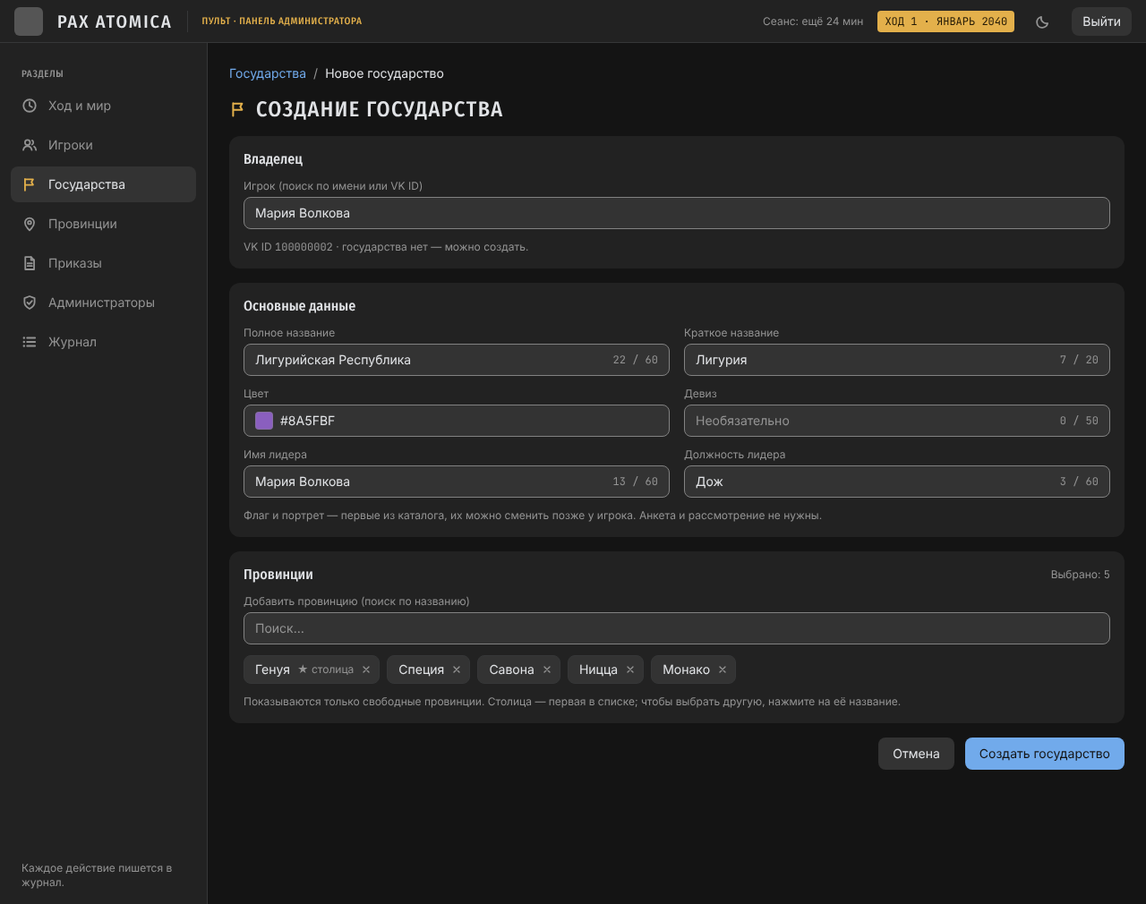
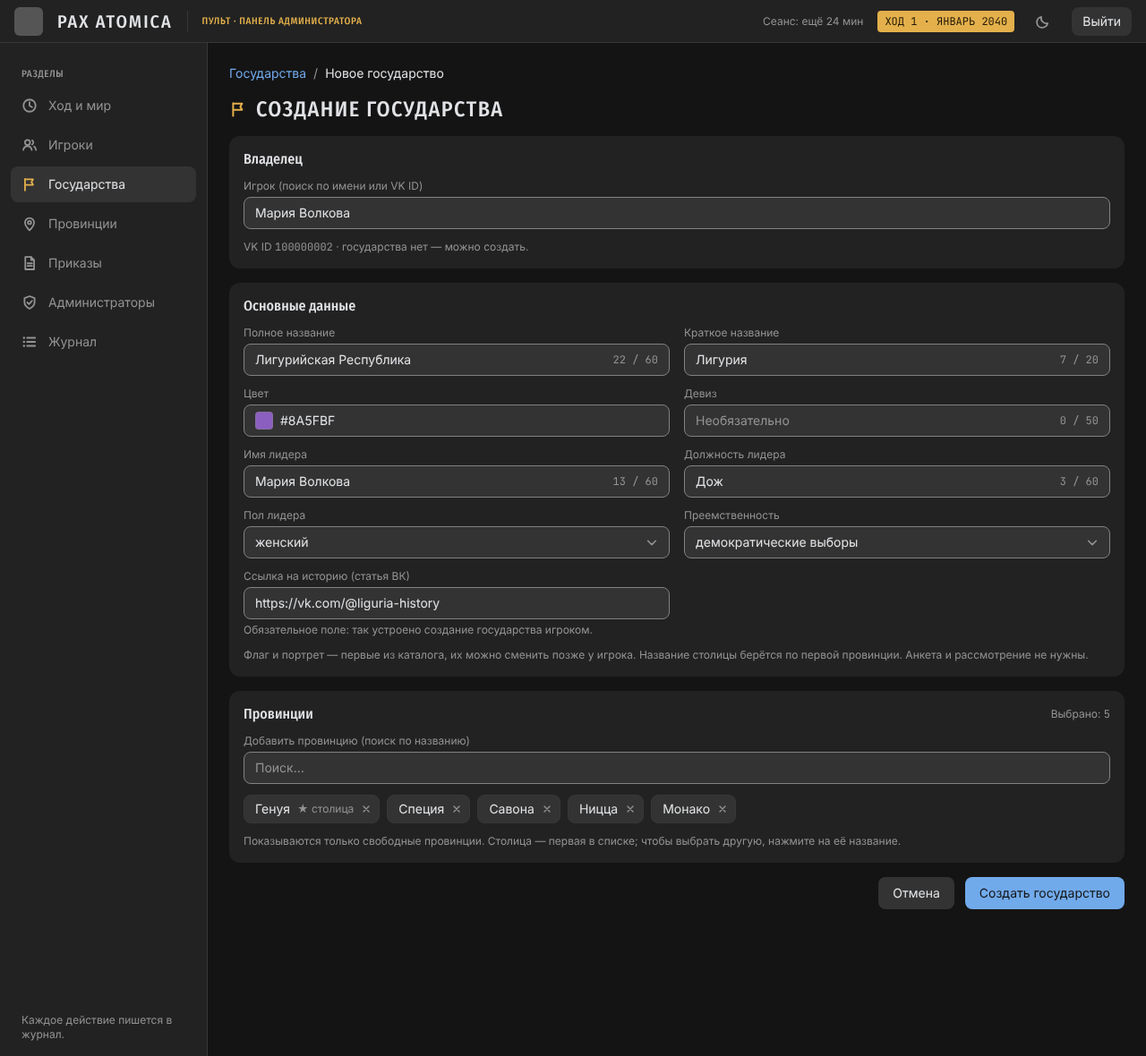
docs(0.11.0): updated 03c create-nation mockups (leader gender, succession, history link)

diff --git a/docs/06_DESIGN/0.11.0/html/03c_sozdanie_gosudarstva_dark.html b/docs/06_DESIGN/0.11.0/html/03c_sozdanie_gosudarstva_dark.html
@@ -74,4 +74,4 @@ tr:last-child td{border-bottom:0}
 .seg span{display:flex;align-items:center;height:32px;padding:0 12px;border-radius:6px;color:#939393;white-space:nowrap}
 .seg span.on{background:#222222;color:#e1e3e6}
 .ctr{display:flex;align-items:center;justify-content:center}
-</style></head><body><div class="page" style="min-height:1010px;"><header class="top"><span class="logo"></span><span class="wm">PAX ATOMICA</span><span class="sep"></span><span class="lab" style="color:var(--si)">Пульт · панель администратора</span><span class="grow"></span><span class="cap">Сеанс: ещё 24 мин</span><span class="turn">ХОД 1 · ЯНВАРЬ 2040</span><span title="Тема" style="display:flex;width:32px;height:32px;align-items:center;justify-content:center;color:var(--m)"><svg width="18" height="18" viewBox="0 0 16 16" fill="none" stroke="currentColor" stroke-width="1.6" stroke-linecap="round" stroke-linejoin="round" aria-hidden="true"><path d="M12.6 9.8A5.4 5.4 0 0 1 6.2 3.4a5.4 5.4 0 1 0 6.4 6.4z"/></svg></span><a class="btn  sm" href="#">Выйти</a></header><div class="body" style="min-height:962px"><nav class="side"><span class="lab grp">Разделы</span><a href="#" class=""><svg width="18" height="18" viewBox="0 0 16 16" fill="none" stroke="currentColor" stroke-width="1.6" stroke-linecap="round" stroke-linejoin="round" aria-hidden="true"><circle cx="8" cy="8" r="6"/><path d="M8 4.5V8l2.5 1.5"/></svg>Ход и мир</a><a href="#" class=""><svg width="18" height="18" viewBox="0 0 16 16" fill="none" stroke="currentColor" stroke-width="1.6" stroke-linecap="round" stroke-linejoin="round" aria-hidden="true"><circle cx="6" cy="5.5" r="2.5"/><path d="M1.8 13c.4-2.4 2.2-3.8 4.2-3.8s3.8 1.4 4.2 3.8"/><path d="M10.5 3.4a2.4 2.4 0 0 1 0 4.2M12.5 9.6c1 .6 1.7 1.7 1.9 3.4"/></svg>Игроки</a><a href="#" class="on"><svg width="18" height="18" viewBox="0 0 16 16" fill="none" stroke="currentColor" stroke-width="1.6" stroke-linecap="round" stroke-linejoin="round" aria-hidden="true"><path d="M3.5 14V2.5M3.5 3h8l-1.6 2.8L11.5 8.5h-8"/></svg>Государства</a><a href="#" class=""><svg width="18" height="18" viewBox="0 0 16 16" fill="none" stroke="currentColor" stroke-width="1.6" stroke-linecap="round" stroke-linejoin="round" aria-hidden="true"><path d="M8 14.5s4.5-4.2 4.5-7.7a4.5 4.5 0 0 0-9 0c0 3.5 4.5 7.7 4.5 7.7z"/><circle cx="8" cy="6.8" r="1.6"/></svg>Провинции</a><a href="#" class=""><svg width="18" height="18" viewBox="0 0 16 16" fill="none" stroke="currentColor" stroke-width="1.6" stroke-linecap="round" stroke-linejoin="round" aria-hidden="true"><path d="M3.8 1.8h5.7l3 3.1v9.3H3.8z"/><path d="M9.5 1.8v3.1h3M6 8.2h4.5M6 10.8h4.5"/></svg>Приказы</a><a href="#" class=""><svg width="18" height="18" viewBox="0 0 16 16" fill="none" stroke="currentColor" stroke-width="1.6" stroke-linecap="round" stroke-linejoin="round" aria-hidden="true"><path d="M8 1.8l5 1.8v4.2c0 3-2.2 5-5 6.4-2.8-1.4-5-3.4-5-6.4V3.6z"/><path d="M5.8 8l1.7 1.7L10.5 6.4"/></svg>Администраторы</a><a href="#" class=""><svg width="18" height="18" viewBox="0 0 16 16" fill="none" stroke="currentColor" stroke-width="1.6" stroke-linecap="round" stroke-linejoin="round" aria-hidden="true"><path d="M5.5 4h8M5.5 8h8M5.5 12h8"/><path d="M2.5 4h.01M2.5 8h.01M2.5 12h.01" stroke-width="2.2"/></svg>Журнал</a><span class="grow"></span><span class="cap" style="padding:0 12px">Каждое действие пишется в журнал.</span></nav><main class="main"><div class="crumbs"><a class="link" href="#">Государства</a><span>/</span><b>Новое государство</b></div><h1><svg width="20" height="20" viewBox="0 0 16 16" fill="none" stroke="var(--si)" stroke-width="1.6" stroke-linecap="round" stroke-linejoin="round" aria-hidden="true"><path d="M3.5 14V2.5M3.5 3h8l-1.6 2.8L11.5 8.5h-8"/></svg>Создание государства</h1><section class="card"><h2>Владелец</h2><label class="fld"><span class="l">Игрок (поиск по имени или VK ID)</span><span class="in"><span style="display:flex;align-items:center;gap:8px;overflow:hidden;text-overflow:ellipsis">Мария Волкова</span></span></label><span class="hint">VK ID <span class="mono">100000002</span> · государства нет — можно создать.</span></section><section class="card"><h2>Основные данные</h2><div class="grid g2"><label class="fld"><span class="l">Полное название</span><span class="in"><span style="display:flex;align-items:center;gap:8px;overflow:hidden;text-overflow:ellipsis">Лигурийская Республика</span><span class="cnt">22 / 60</span></span></label><label class="fld"><span class="l">Краткое название</span><span class="in"><span style="display:flex;align-items:center;gap:8px;overflow:hidden;text-overflow:ellipsis">Лигурия</span><span class="cnt">7 / 20</span></span></label><label class="fld"><span class="l">Цвет</span><span class="in"><span style="display:flex;align-items:center;gap:8px;overflow:hidden;text-overflow:ellipsis"><span class="sw" style="background:#8a5fbf"></span>#8A5FBF</span></span></label><label class="fld"><span class="l">Девиз</span><span class="in ph"><span style="display:flex;align-items:center;gap:8px;overflow:hidden;text-overflow:ellipsis">Необязательно</span><span class="cnt">0 / 50</span></span></label><label class="fld"><span class="l">Имя лидера</span><span class="in"><span style="display:flex;align-items:center;gap:8px;overflow:hidden;text-overflow:ellipsis">Мария Волкова</span><span class="cnt">13 / 60</span></span></label><label class="fld"><span class="l">Должность лидера</span><span class="in"><span style="display:flex;align-items:center;gap:8px;overflow:hidden;text-overflow:ellipsis">Дож</span><span class="cnt">3 / 60</span></span></label></div><span class="hint">Флаг и портрет — первые из каталога, их можно сменить позже у игрока. Анкета и рассмотрение не нужны.</span></section><section class="card"><div class="row"><h2 class="grow">Провинции</h2><span class="cap">Выбрано: <span class="mono">5</span></span></div><label class="fld"><span class="l">Добавить провинцию (поиск по названию)</span><span class="in ph"><span style="display:flex;align-items:center;gap:8px;overflow:hidden;text-overflow:ellipsis">Поиск…</span></span></label><div class="row" style="flex-wrap:wrap;gap:8px"><span class="chip">Генуя<span class="cap">★ столица</span><svg width="12" height="12" viewBox="0 0 16 16" fill="none" stroke="var(--m)" stroke-width="1.8" stroke-linecap="round" stroke-linejoin="round" aria-hidden="true"><path d="M4 4l8 8M12 4l-8 8"/></svg></span><span class="chip">Специя<svg width="12" height="12" viewBox="0 0 16 16" fill="none" stroke="var(--m)" stroke-width="1.8" stroke-linecap="round" stroke-linejoin="round" aria-hidden="true"><path d="M4 4l8 8M12 4l-8 8"/></svg></span><span class="chip">Савона<svg width="12" height="12" viewBox="0 0 16 16" fill="none" stroke="var(--m)" stroke-width="1.8" stroke-linecap="round" stroke-linejoin="round" aria-hidden="true"><path d="M4 4l8 8M12 4l-8 8"/></svg></span><span class="chip">Ницца<svg width="12" height="12" viewBox="0 0 16 16" fill="none" stroke="var(--m)" stroke-width="1.8" stroke-linecap="round" stroke-linejoin="round" aria-hidden="true"><path d="M4 4l8 8M12 4l-8 8"/></svg></span><span class="chip">Монако<svg width="12" height="12" viewBox="0 0 16 16" fill="none" stroke="var(--m)" stroke-width="1.8" stroke-linecap="round" stroke-linejoin="round" aria-hidden="true"><path d="M4 4l8 8M12 4l-8 8"/></svg></span></div><span class="hint">Показываются только свободные провинции. Столица — первая в списке; чтобы выбрать другую, нажмите на её название.</span></section><div class="row" style="justify-content:flex-end"><a class="btn" href="#">Отмена</a><a class="btn p" href="#">Создать государство</a></div></main></div></div></body></html>
+</style></head><body><div class="page" style="min-height:1180px;"><header class="top"><span class="logo"></span><span class="wm">PAX ATOMICA</span><span class="sep"></span><span class="lab" style="color:var(--si)">Пульт · панель администратора</span><span class="grow"></span><span class="cap">Сеанс: ещё 24 мин</span><span class="turn">ХОД 1 · ЯНВАРЬ 2040</span><span title="Тема" style="display:flex;width:32px;height:32px;align-items:center;justify-content:center;color:var(--m)"><svg width="18" height="18" viewBox="0 0 16 16" fill="none" stroke="currentColor" stroke-width="1.6" stroke-linecap="round" stroke-linejoin="round" aria-hidden="true"><path d="M12.6 9.8A5.4 5.4 0 0 1 6.2 3.4a5.4 5.4 0 1 0 6.4 6.4z"/></svg></span><a class="btn  sm" href="#">Выйти</a></header><div class="body" style="min-height:1132px"><nav class="side"><span class="lab grp">Разделы</span><a href="#" class=""><svg width="18" height="18" viewBox="0 0 16 16" fill="none" stroke="currentColor" stroke-width="1.6" stroke-linecap="round" stroke-linejoin="round" aria-hidden="true"><circle cx="8" cy="8" r="6"/><path d="M8 4.5V8l2.5 1.5"/></svg>Ход и мир</a><a href="#" class=""><svg width="18" height="18" viewBox="0 0 16 16" fill="none" stroke="currentColor" stroke-width="1.6" stroke-linecap="round" stroke-linejoin="round" aria-hidden="true"><circle cx="6" cy="5.5" r="2.5"/><path d="M1.8 13c.4-2.4 2.2-3.8 4.2-3.8s3.8 1.4 4.2 3.8"/><path d="M10.5 3.4a2.4 2.4 0 0 1 0 4.2M12.5 9.6c1 .6 1.7 1.7 1.9 3.4"/></svg>Игроки</a><a href="#" class="on"><svg width="18" height="18" viewBox="0 0 16 16" fill="none" stroke="currentColor" stroke-width="1.6" stroke-linecap="round" stroke-linejoin="round" aria-hidden="true"><path d="M3.5 14V2.5M3.5 3h8l-1.6 2.8L11.5 8.5h-8"/></svg>Государства</a><a href="#" class=""><svg width="18" height="18" viewBox="0 0 16 16" fill="none" stroke="currentColor" stroke-width="1.6" stroke-linecap="round" stroke-linejoin="round" aria-hidden="true"><path d="M8 14.5s4.5-4.2 4.5-7.7a4.5 4.5 0 0 0-9 0c0 3.5 4.5 7.7 4.5 7.7z"/><circle cx="8" cy="6.8" r="1.6"/></svg>Провинции</a><a href="#" class=""><svg width="18" height="18" viewBox="0 0 16 16" fill="none" stroke="currentColor" stroke-width="1.6" stroke-linecap="round" stroke-linejoin="round" aria-hidden="true"><path d="M3.8 1.8h5.7l3 3.1v9.3H3.8z"/><path d="M9.5 1.8v3.1h3M6 8.2h4.5M6 10.8h4.5"/></svg>Приказы</a><a href="#" class=""><svg width="18" height="18" viewBox="0 0 16 16" fill="none" stroke="currentColor" stroke-width="1.6" stroke-linecap="round" stroke-linejoin="round" aria-hidden="true"><path d="M8 1.8l5 1.8v4.2c0 3-2.2 5-5 6.4-2.8-1.4-5-3.4-5-6.4V3.6z"/><path d="M5.8 8l1.7 1.7L10.5 6.4"/></svg>Администраторы</a><a href="#" class=""><svg width="18" height="18" viewBox="0 0 16 16" fill="none" stroke="currentColor" stroke-width="1.6" stroke-linecap="round" stroke-linejoin="round" aria-hidden="true"><path d="M5.5 4h8M5.5 8h8M5.5 12h8"/><path d="M2.5 4h.01M2.5 8h.01M2.5 12h.01" stroke-width="2.2"/></svg>Журнал</a><span class="grow"></span><span class="cap" style="padding:0 12px">Каждое действие пишется в журнал.</span></nav><main class="main"><div class="crumbs"><a class="link" href="#">Государства</a><span>/</span><b>Новое государство</b></div><h1><svg width="20" height="20" viewBox="0 0 16 16" fill="none" stroke="var(--si)" stroke-width="1.6" stroke-linecap="round" stroke-linejoin="round" aria-hidden="true"><path d="M3.5 14V2.5M3.5 3h8l-1.6 2.8L11.5 8.5h-8"/></svg>Создание государства</h1><section class="card"><h2>Владелец</h2><label class="fld"><span class="l">Игрок (поиск по имени или VK ID)</span><span class="in"><span style="display:flex;align-items:center;gap:8px;overflow:hidden;text-overflow:ellipsis">Мария Волкова</span></span></label><span class="hint">VK ID <span class="mono">100000002</span> · государства нет — можно создать.</span></section><section class="card"><h2>Основные данные</h2><div class="grid g2"><label class="fld"><span class="l">Полное название</span><span class="in"><span style="display:flex;align-items:center;gap:8px;overflow:hidden;text-overflow:ellipsis">Лигурийская Республика</span><span class="cnt">22 / 60</span></span></label><label class="fld"><span class="l">Краткое название</span><span class="in"><span style="display:flex;align-items:center;gap:8px;overflow:hidden;text-overflow:ellipsis">Лигурия</span><span class="cnt">7 / 20</span></span></label><label class="fld"><span class="l">Цвет</span><span class="in"><span style="display:flex;align-items:center;gap:8px;overflow:hidden;text-overflow:ellipsis"><span class="sw" style="background:#8a5fbf"></span>#8A5FBF</span></span></label><label class="fld"><span class="l">Девиз</span><span class="in ph"><span style="display:flex;align-items:center;gap:8px;overflow:hidden;text-overflow:ellipsis">Необязательно</span><span class="cnt">0 / 50</span></span></label><label class="fld"><span class="l">Имя лидера</span><span class="in"><span style="display:flex;align-items:center;gap:8px;overflow:hidden;text-overflow:ellipsis">Мария Волкова</span><span class="cnt">13 / 60</span></span></label><label class="fld"><span class="l">Должность лидера</span><span class="in"><span style="display:flex;align-items:center;gap:8px;overflow:hidden;text-overflow:ellipsis">Дож</span><span class="cnt">3 / 60</span></span></label><label class="fld"><span class="l">Пол лидера</span><span class="in"><span style="display:flex;align-items:center;gap:8px;overflow:hidden;text-overflow:ellipsis">женский</span><svg width="14" height="14" viewBox="0 0 16 16" fill="none" stroke="currentColor" stroke-width="1.75" stroke-linecap="round" stroke-linejoin="round" aria-hidden="true" style="flex-shrink:0;color:var(--m)"><path d="M3 6l5 5 5-5"/></svg></span></label><label class="fld"><span class="l">Преемственность</span><span class="in"><span style="display:flex;align-items:center;gap:8px;overflow:hidden;text-overflow:ellipsis">демократические выборы</span><svg width="14" height="14" viewBox="0 0 16 16" fill="none" stroke="currentColor" stroke-width="1.75" stroke-linecap="round" stroke-linejoin="round" aria-hidden="true" style="flex-shrink:0;color:var(--m)"><path d="M3 6l5 5 5-5"/></svg></span></label><label class="fld"><span class="l">Ссылка на историю (статья ВК)</span><span class="in"><span style="display:flex;align-items:center;gap:8px;overflow:hidden;text-overflow:ellipsis">https://vk.com/@liguria-history</span></span><span class="hint">Обязательное поле: так устроено создание государства игроком.</span></label></div><span class="hint">Флаг и портрет — первые из каталога, их можно сменить позже у игрока. Название столицы берётся по первой провинции. Анкета и рассмотрение не нужны.</span></section><section class="card"><div class="row"><h2 class="grow">Провинции</h2><span class="cap">Выбрано: <span class="mono">5</span></span></div><label class="fld"><span class="l">Добавить провинцию (поиск по названию)</span><span class="in ph"><span style="display:flex;align-items:center;gap:8px;overflow:hidden;text-overflow:ellipsis">Поиск…</span></span></label><div class="row" style="flex-wrap:wrap;gap:8px"><span class="chip">Генуя<span class="cap">★ столица</span><svg width="12" height="12" viewBox="0 0 16 16" fill="none" stroke="var(--m)" stroke-width="1.8" stroke-linecap="round" stroke-linejoin="round" aria-hidden="true"><path d="M4 4l8 8M12 4l-8 8"/></svg></span><span class="chip">Специя<svg width="12" height="12" viewBox="0 0 16 16" fill="none" stroke="var(--m)" stroke-width="1.8" stroke-linecap="round" stroke-linejoin="round" aria-hidden="true"><path d="M4 4l8 8M12 4l-8 8"/></svg></span><span class="chip">Савона<svg width="12" height="12" viewBox="0 0 16 16" fill="none" stroke="var(--m)" stroke-width="1.8" stroke-linecap="round" stroke-linejoin="round" aria-hidden="true"><path d="M4 4l8 8M12 4l-8 8"/></svg></span><span class="chip">Ницца<svg width="12" height="12" viewBox="0 0 16 16" fill="none" stroke="var(--m)" stroke-width="1.8" stroke-linecap="round" stroke-linejoin="round" aria-hidden="true"><path d="M4 4l8 8M12 4l-8 8"/></svg></span><span class="chip">Монако<svg width="12" height="12" viewBox="0 0 16 16" fill="none" stroke="var(--m)" stroke-width="1.8" stroke-linecap="round" stroke-linejoin="round" aria-hidden="true"><path d="M4 4l8 8M12 4l-8 8"/></svg></span></div><span class="hint">Показываются только свободные провинции. Столица — первая в списке; чтобы выбрать другую, нажмите на её название.</span></section><div class="row" style="justify-content:flex-end"><a class="btn" href="#">Отмена</a><a class="btn p" href="#">Создать государство</a></div></main></div></div></body></html>

diff --git a/docs/06_DESIGN/0.11.0/html/03c_sozdanie_gosudarstva_light.html b/docs/06_DESIGN/0.11.0/html/03c_sozdanie_gosudarstva_light.html
@@ -74,4 +74,4 @@ tr:last-child td{border-bottom:0}
 .seg span{display:flex;align-items:center;height:32px;padding:0 12px;border-radius:6px;color:#626d7a;white-space:nowrap}
 .seg span.on{background:#ffffff;color:#000000}
 .ctr{display:flex;align-items:center;justify-content:center}
-</style></head><body><div class="page" style="min-height:1010px;"><header class="top"><span class="logo"></span><span class="wm">PAX ATOMICA</span><span class="sep"></span><span class="lab" style="color:var(--si)">Пульт · панель администратора</span><span class="grow"></span><span class="cap">Сеанс: ещё 24 мин</span><span class="turn">ХОД 1 · ЯНВАРЬ 2040</span><span title="Тема" style="display:flex;width:32px;height:32px;align-items:center;justify-content:center;color:var(--m)"><svg width="18" height="18" viewBox="0 0 16 16" fill="none" stroke="currentColor" stroke-width="1.6" stroke-linecap="round" stroke-linejoin="round" aria-hidden="true"><path d="M12.6 9.8A5.4 5.4 0 0 1 6.2 3.4a5.4 5.4 0 1 0 6.4 6.4z"/></svg></span><a class="btn  sm" href="#">Выйти</a></header><div class="body" style="min-height:962px"><nav class="side"><span class="lab grp">Разделы</span><a href="#" class=""><svg width="18" height="18" viewBox="0 0 16 16" fill="none" stroke="currentColor" stroke-width="1.6" stroke-linecap="round" stroke-linejoin="round" aria-hidden="true"><circle cx="8" cy="8" r="6"/><path d="M8 4.5V8l2.5 1.5"/></svg>Ход и мир</a><a href="#" class=""><svg width="18" height="18" viewBox="0 0 16 16" fill="none" stroke="currentColor" stroke-width="1.6" stroke-linecap="round" stroke-linejoin="round" aria-hidden="true"><circle cx="6" cy="5.5" r="2.5"/><path d="M1.8 13c.4-2.4 2.2-3.8 4.2-3.8s3.8 1.4 4.2 3.8"/><path d="M10.5 3.4a2.4 2.4 0 0 1 0 4.2M12.5 9.6c1 .6 1.7 1.7 1.9 3.4"/></svg>Игроки</a><a href="#" class="on"><svg width="18" height="18" viewBox="0 0 16 16" fill="none" stroke="currentColor" stroke-width="1.6" stroke-linecap="round" stroke-linejoin="round" aria-hidden="true"><path d="M3.5 14V2.5M3.5 3h8l-1.6 2.8L11.5 8.5h-8"/></svg>Государства</a><a href="#" class=""><svg width="18" height="18" viewBox="0 0 16 16" fill="none" stroke="currentColor" stroke-width="1.6" stroke-linecap="round" stroke-linejoin="round" aria-hidden="true"><path d="M8 14.5s4.5-4.2 4.5-7.7a4.5 4.5 0 0 0-9 0c0 3.5 4.5 7.7 4.5 7.7z"/><circle cx="8" cy="6.8" r="1.6"/></svg>Провинции</a><a href="#" class=""><svg width="18" height="18" viewBox="0 0 16 16" fill="none" stroke="currentColor" stroke-width="1.6" stroke-linecap="round" stroke-linejoin="round" aria-hidden="true"><path d="M3.8 1.8h5.7l3 3.1v9.3H3.8z"/><path d="M9.5 1.8v3.1h3M6 8.2h4.5M6 10.8h4.5"/></svg>Приказы</a><a href="#" class=""><svg width="18" height="18" viewBox="0 0 16 16" fill="none" stroke="currentColor" stroke-width="1.6" stroke-linecap="round" stroke-linejoin="round" aria-hidden="true"><path d="M8 1.8l5 1.8v4.2c0 3-2.2 5-5 6.4-2.8-1.4-5-3.4-5-6.4V3.6z"/><path d="M5.8 8l1.7 1.7L10.5 6.4"/></svg>Администраторы</a><a href="#" class=""><svg width="18" height="18" viewBox="0 0 16 16" fill="none" stroke="currentColor" stroke-width="1.6" stroke-linecap="round" stroke-linejoin="round" aria-hidden="true"><path d="M5.5 4h8M5.5 8h8M5.5 12h8"/><path d="M2.5 4h.01M2.5 8h.01M2.5 12h.01" stroke-width="2.2"/></svg>Журнал</a><span class="grow"></span><span class="cap" style="padding:0 12px">Каждое действие пишется в журнал.</span></nav><main class="main"><div class="crumbs"><a class="link" href="#">Государства</a><span>/</span><b>Новое государство</b></div><h1><svg width="20" height="20" viewBox="0 0 16 16" fill="none" stroke="var(--si)" stroke-width="1.6" stroke-linecap="round" stroke-linejoin="round" aria-hidden="true"><path d="M3.5 14V2.5M3.5 3h8l-1.6 2.8L11.5 8.5h-8"/></svg>Создание государства</h1><section class="card"><h2>Владелец</h2><label class="fld"><span class="l">Игрок (поиск по имени или VK ID)</span><span class="in"><span style="display:flex;align-items:center;gap:8px;overflow:hidden;text-overflow:ellipsis">Мария Волкова</span></span></label><span class="hint">VK ID <span class="mono">100000002</span> · государства нет — можно создать.</span></section><section class="card"><h2>Основные данные</h2><div class="grid g2"><label class="fld"><span class="l">Полное название</span><span class="in"><span style="display:flex;align-items:center;gap:8px;overflow:hidden;text-overflow:ellipsis">Лигурийская Республика</span><span class="cnt">22 / 60</span></span></label><label class="fld"><span class="l">Краткое название</span><span class="in"><span style="display:flex;align-items:center;gap:8px;overflow:hidden;text-overflow:ellipsis">Лигурия</span><span class="cnt">7 / 20</span></span></label><label class="fld"><span class="l">Цвет</span><span class="in"><span style="display:flex;align-items:center;gap:8px;overflow:hidden;text-overflow:ellipsis"><span class="sw" style="background:#8a5fbf"></span>#8A5FBF</span></span></label><label class="fld"><span class="l">Девиз</span><span class="in ph"><span style="display:flex;align-items:center;gap:8px;overflow:hidden;text-overflow:ellipsis">Необязательно</span><span class="cnt">0 / 50</span></span></label><label class="fld"><span class="l">Имя лидера</span><span class="in"><span style="display:flex;align-items:center;gap:8px;overflow:hidden;text-overflow:ellipsis">Мария Волкова</span><span class="cnt">13 / 60</span></span></label><label class="fld"><span class="l">Должность лидера</span><span class="in"><span style="display:flex;align-items:center;gap:8px;overflow:hidden;text-overflow:ellipsis">Дож</span><span class="cnt">3 / 60</span></span></label></div><span class="hint">Флаг и портрет — первые из каталога, их можно сменить позже у игрока. Анкета и рассмотрение не нужны.</span></section><section class="card"><div class="row"><h2 class="grow">Провинции</h2><span class="cap">Выбрано: <span class="mono">5</span></span></div><label class="fld"><span class="l">Добавить провинцию (поиск по названию)</span><span class="in ph"><span style="display:flex;align-items:center;gap:8px;overflow:hidden;text-overflow:ellipsis">Поиск…</span></span></label><div class="row" style="flex-wrap:wrap;gap:8px"><span class="chip">Генуя<span class="cap">★ столица</span><svg width="12" height="12" viewBox="0 0 16 16" fill="none" stroke="var(--m)" stroke-width="1.8" stroke-linecap="round" stroke-linejoin="round" aria-hidden="true"><path d="M4 4l8 8M12 4l-8 8"/></svg></span><span class="chip">Специя<svg width="12" height="12" viewBox="0 0 16 16" fill="none" stroke="var(--m)" stroke-width="1.8" stroke-linecap="round" stroke-linejoin="round" aria-hidden="true"><path d="M4 4l8 8M12 4l-8 8"/></svg></span><span class="chip">Савона<svg width="12" height="12" viewBox="0 0 16 16" fill="none" stroke="var(--m)" stroke-width="1.8" stroke-linecap="round" stroke-linejoin="round" aria-hidden="true"><path d="M4 4l8 8M12 4l-8 8"/></svg></span><span class="chip">Ницца<svg width="12" height="12" viewBox="0 0 16 16" fill="none" stroke="var(--m)" stroke-width="1.8" stroke-linecap="round" stroke-linejoin="round" aria-hidden="true"><path d="M4 4l8 8M12 4l-8 8"/></svg></span><span class="chip">Монако<svg width="12" height="12" viewBox="0 0 16 16" fill="none" stroke="var(--m)" stroke-width="1.8" stroke-linecap="round" stroke-linejoin="round" aria-hidden="true"><path d="M4 4l8 8M12 4l-8 8"/></svg></span></div><span class="hint">Показываются только свободные провинции. Столица — первая в списке; чтобы выбрать другую, нажмите на её название.</span></section><div class="row" style="justify-content:flex-end"><a class="btn" href="#">Отмена</a><a class="btn p" href="#">Создать государство</a></div></main></div></div></body></html>
+</style></head><body><div class="page" style="min-height:1180px;"><header class="top"><span class="logo"></span><span class="wm">PAX ATOMICA</span><span class="sep"></span><span class="lab" style="color:var(--si)">Пульт · панель администратора</span><span class="grow"></span><span class="cap">Сеанс: ещё 24 мин</span><span class="turn">ХОД 1 · ЯНВАРЬ 2040</span><span title="Тема" style="display:flex;width:32px;height:32px;align-items:center;justify-content:center;color:var(--m)"><svg width="18" height="18" viewBox="0 0 16 16" fill="none" stroke="currentColor" stroke-width="1.6" stroke-linecap="round" stroke-linejoin="round" aria-hidden="true"><path d="M12.6 9.8A5.4 5.4 0 0 1 6.2 3.4a5.4 5.4 0 1 0 6.4 6.4z"/></svg></span><a class="btn  sm" href="#">Выйти</a></header><div class="body" style="min-height:1132px"><nav class="side"><span class="lab grp">Разделы</span><a href="#" class=""><svg width="18" height="18" viewBox="0 0 16 16" fill="none" stroke="currentColor" stroke-width="1.6" stroke-linecap="round" stroke-linejoin="round" aria-hidden="true"><circle cx="8" cy="8" r="6"/><path d="M8 4.5V8l2.5 1.5"/></svg>Ход и мир</a><a href="#" class=""><svg width="18" height="18" viewBox="0 0 16 16" fill="none" stroke="currentColor" stroke-width="1.6" stroke-linecap="round" stroke-linejoin="round" aria-hidden="true"><circle cx="6" cy="5.5" r="2.5"/><path d="M1.8 13c.4-2.4 2.2-3.8 4.2-3.8s3.8 1.4 4.2 3.8"/><path d="M10.5 3.4a2.4 2.4 0 0 1 0 4.2M12.5 9.6c1 .6 1.7 1.7 1.9 3.4"/></svg>Игроки</a><a href="#" class="on"><svg width="18" height="18" viewBox="0 0 16 16" fill="none" stroke="currentColor" stroke-width="1.6" stroke-linecap="round" stroke-linejoin="round" aria-hidden="true"><path d="M3.5 14V2.5M3.5 3h8l-1.6 2.8L11.5 8.5h-8"/></svg>Государства</a><a href="#" class=""><svg width="18" height="18" viewBox="0 0 16 16" fill="none" stroke="currentColor" stroke-width="1.6" stroke-linecap="round" stroke-linejoin="round" aria-hidden="true"><path d="M8 14.5s4.5-4.2 4.5-7.7a4.5 4.5 0 0 0-9 0c0 3.5 4.5 7.7 4.5 7.7z"/><circle cx="8" cy="6.8" r="1.6"/></svg>Провинции</a><a href="#" class=""><svg width="18" height="18" viewBox="0 0 16 16" fill="none" stroke="currentColor" stroke-width="1.6" stroke-linecap="round" stroke-linejoin="round" aria-hidden="true"><path d="M3.8 1.8h5.7l3 3.1v9.3H3.8z"/><path d="M9.5 1.8v3.1h3M6 8.2h4.5M6 10.8h4.5"/></svg>Приказы</a><a href="#" class=""><svg width="18" height="18" viewBox="0 0 16 16" fill="none" stroke="currentColor" stroke-width="1.6" stroke-linecap="round" stroke-linejoin="round" aria-hidden="true"><path d="M8 1.8l5 1.8v4.2c0 3-2.2 5-5 6.4-2.8-1.4-5-3.4-5-6.4V3.6z"/><path d="M5.8 8l1.7 1.7L10.5 6.4"/></svg>Администраторы</a><a href="#" class=""><svg width="18" height="18" viewBox="0 0 16 16" fill="none" stroke="currentColor" stroke-width="1.6" stroke-linecap="round" stroke-linejoin="round" aria-hidden="true"><path d="M5.5 4h8M5.5 8h8M5.5 12h8"/><path d="M2.5 4h.01M2.5 8h.01M2.5 12h.01" stroke-width="2.2"/></svg>Журнал</a><span class="grow"></span><span class="cap" style="padding:0 12px">Каждое действие пишется в журнал.</span></nav><main class="main"><div class="crumbs"><a class="link" href="#">Государства</a><span>/</span><b>Новое государство</b></div><h1><svg width="20" height="20" viewBox="0 0 16 16" fill="none" stroke="var(--si)" stroke-width="1.6" stroke-linecap="round" stroke-linejoin="round" aria-hidden="true"><path d="M3.5 14V2.5M3.5 3h8l-1.6 2.8L11.5 8.5h-8"/></svg>Создание государства</h1><section class="card"><h2>Владелец</h2><label class="fld"><span class="l">Игрок (поиск по имени или VK ID)</span><span class="in"><span style="display:flex;align-items:center;gap:8px;overflow:hidden;text-overflow:ellipsis">Мария Волкова</span></span></label><span class="hint">VK ID <span class="mono">100000002</span> · государства нет — можно создать.</span></section><section class="card"><h2>Основные данные</h2><div class="grid g2"><label class="fld"><span class="l">Полное название</span><span class="in"><span style="display:flex;align-items:center;gap:8px;overflow:hidden;text-overflow:ellipsis">Лигурийская Республика</span><span class="cnt">22 / 60</span></span></label><label class="fld"><span class="l">Краткое название</span><span class="in"><span style="display:flex;align-items:center;gap:8px;overflow:hidden;text-overflow:ellipsis">Лигурия</span><span class="cnt">7 / 20</span></span></label><label class="fld"><span class="l">Цвет</span><span class="in"><span style="display:flex;align-items:center;gap:8px;overflow:hidden;text-overflow:ellipsis"><span class="sw" style="background:#8a5fbf"></span>#8A5FBF</span></span></label><label class="fld"><span class="l">Девиз</span><span class="in ph"><span style="display:flex;align-items:center;gap:8px;overflow:hidden;text-overflow:ellipsis">Необязательно</span><span class="cnt">0 / 50</span></span></label><label class="fld"><span class="l">Имя лидера</span><span class="in"><span style="display:flex;align-items:center;gap:8px;overflow:hidden;text-overflow:ellipsis">Мария Волкова</span><span class="cnt">13 / 60</span></span></label><label class="fld"><span class="l">Должность лидера</span><span class="in"><span style="display:flex;align-items:center;gap:8px;overflow:hidden;text-overflow:ellipsis">Дож</span><span class="cnt">3 / 60</span></span></label><label class="fld"><span class="l">Пол лидера</span><span class="in"><span style="display:flex;align-items:center;gap:8px;overflow:hidden;text-overflow:ellipsis">женский</span><svg width="14" height="14" viewBox="0 0 16 16" fill="none" stroke="currentColor" stroke-width="1.75" stroke-linecap="round" stroke-linejoin="round" aria-hidden="true" style="flex-shrink:0;color:var(--m)"><path d="M3 6l5 5 5-5"/></svg></span></label><label class="fld"><span class="l">Преемственность</span><span class="in"><span style="display:flex;align-items:center;gap:8px;overflow:hidden;text-overflow:ellipsis">демократические выборы</span><svg width="14" height="14" viewBox="0 0 16 16" fill="none" stroke="currentColor" stroke-width="1.75" stroke-linecap="round" stroke-linejoin="round" aria-hidden="true" style="flex-shrink:0;color:var(--m)"><path d="M3 6l5 5 5-5"/></svg></span></label><label class="fld"><span class="l">Ссылка на историю (статья ВК)</span><span class="in"><span style="display:flex;align-items:center;gap:8px;overflow:hidden;text-overflow:ellipsis">https://vk.com/@liguria-history</span></span><span class="hint">Обязательное поле: так устроено создание государства игроком.</span></label></div><span class="hint">Флаг и портрет — первые из каталога, их можно сменить позже у игрока. Название столицы берётся по первой провинции. Анкета и рассмотрение не нужны.</span></section><section class="card"><div class="row"><h2 class="grow">Провинции</h2><span class="cap">Выбрано: <span class="mono">5</span></span></div><label class="fld"><span class="l">Добавить провинцию (поиск по названию)</span><span class="in ph"><span style="display:flex;align-items:center;gap:8px;overflow:hidden;text-overflow:ellipsis">Поиск…</span></span></label><div class="row" style="flex-wrap:wrap;gap:8px"><span class="chip">Генуя<span class="cap">★ столица</span><svg width="12" height="12" viewBox="0 0 16 16" fill="none" stroke="var(--m)" stroke-width="1.8" stroke-linecap="round" stroke-linejoin="round" aria-hidden="true"><path d="M4 4l8 8M12 4l-8 8"/></svg></span><span class="chip">Специя<svg width="12" height="12" viewBox="0 0 16 16" fill="none" stroke="var(--m)" stroke-width="1.8" stroke-linecap="round" stroke-linejoin="round" aria-hidden="true"><path d="M4 4l8 8M12 4l-8 8"/></svg></span><span class="chip">Савона<svg width="12" height="12" viewBox="0 0 16 16" fill="none" stroke="var(--m)" stroke-width="1.8" stroke-linecap="round" stroke-linejoin="round" aria-hidden="true"><path d="M4 4l8 8M12 4l-8 8"/></svg></span><span class="chip">Ницца<svg width="12" height="12" viewBox="0 0 16 16" fill="none" stroke="var(--m)" stroke-width="1.8" stroke-linecap="round" stroke-linejoin="round" aria-hidden="true"><path d="M4 4l8 8M12 4l-8 8"/></svg></span><span class="chip">Монако<svg width="12" height="12" viewBox="0 0 16 16" fill="none" stroke="var(--m)" stroke-width="1.8" stroke-linecap="round" stroke-linejoin="round" aria-hidden="true"><path d="M4 4l8 8M12 4l-8 8"/></svg></span></div><span class="hint">Показываются только свободные провинции. Столица — первая в списке; чтобы выбрать другую, нажмите на её название.</span></section><div class="row" style="justify-content:flex-end"><a class="btn" href="#">Отмена</a><a class="btn p" href="#">Создать государство</a></div></main></div></div></body></html>

diff --git a/docs/06_DESIGN/0.11.0/README.md b/docs/06_DESIGN/0.11.0/README.md
@@ -18,4 +18,6 @@
 | 08 | Журнал действий с фильтрами | `08_zhurnal` | 11 |
 | 09 | «Ссылка устарела» и «Нет доступа» | `09_ssylka_ustarela` | 4 |
 
+03c обновлён 24.10.2026: добавлены поля «Пол лидера», «Преемственность», «Ссылка на историю» (обязательны для создания государства).
+
 Допущение Lead AI: «основные данные государства» = текстовые поля окна правки игрока (названия, цвет, девиз, описание, лидер, должность, биография, столица, ссылка на историю); провинции, флаг и портрет здесь не правятся.
